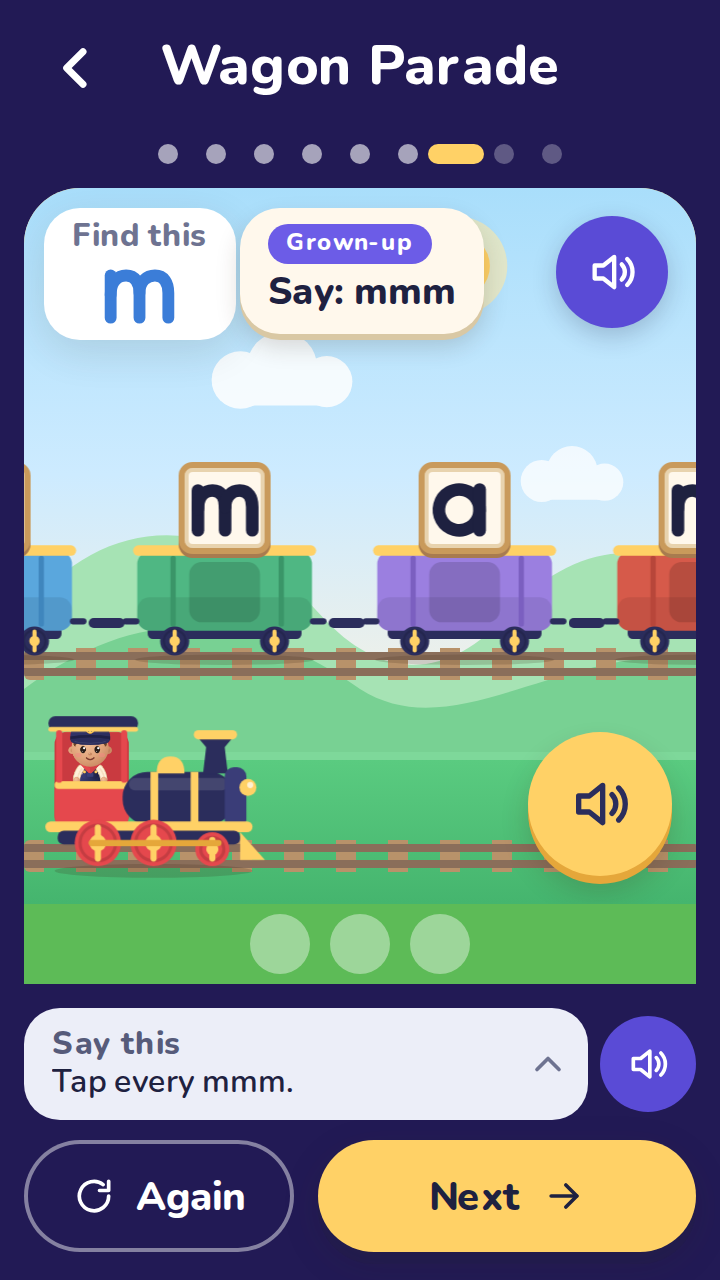
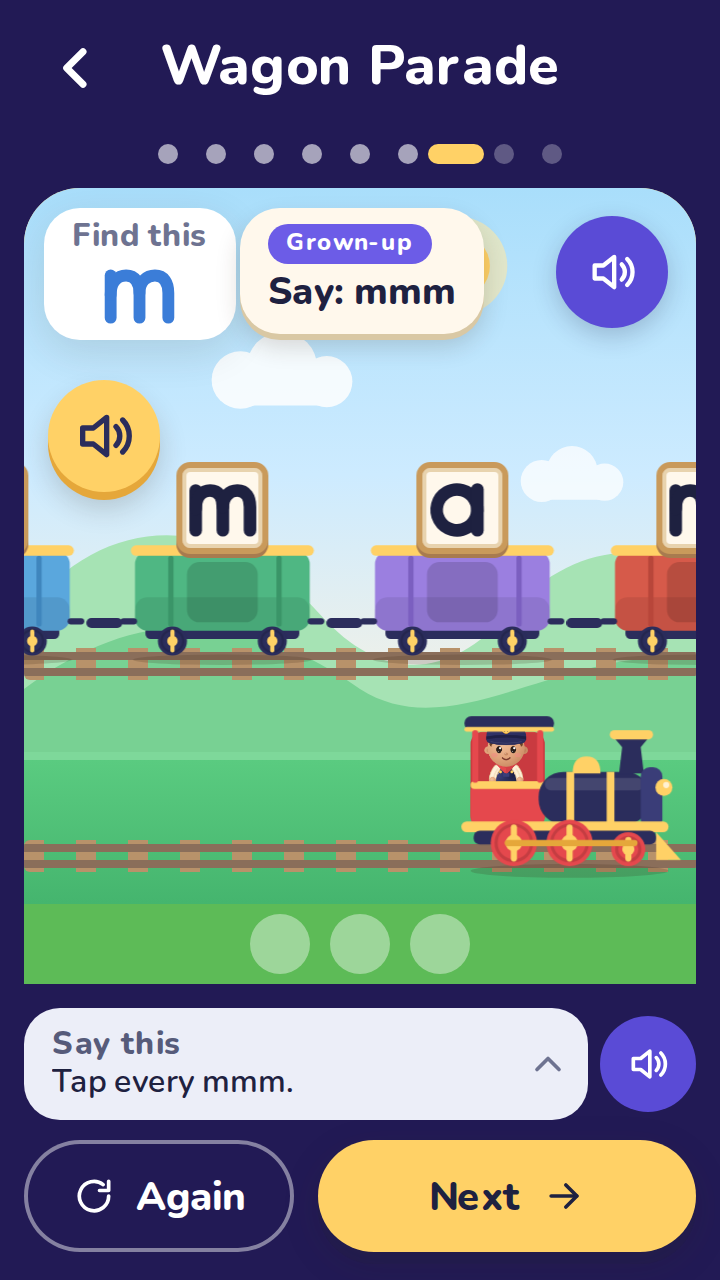
Wagon Parade: every right tap counts; the wagon rolls down and couples onto the bottom train (1.9.3.2)
Claude-Session: https://claude.ai/code/session_016cKvBQBv9Ceas6c2YjYcfF

diff --git a/js/screens/tasks/wagons.js b/js/screens/tasks/wagons.js
@@ -10,16 +10,16 @@ import { soundPhrase, fit } from '../../lessons.js';
 import { sfx } from '../../sfx.js';
 
 const INK = '#1E2140';
-const TRAIN_W = 116, WAGON_W = 104, GAP = 16, SIZE = 8, HITS = 3, SPEED = 80; // px and px per second
+const TRAIN_W = 116, WAGON_W = 104, CW = 62, GAP = 16, SIZE = 8, HITS = 3, SPEED = 80; // px and px per second
 const SLOT = WAGON_W + GAP, LOOP = SIZE * SLOT, OFF = 120; // a wagon is drawn from -OFF to LOOP - OFF, so it wraps out of sight
-const NEXT_MS = 900, FIRST_MS = 400;
+const NEXT_MS = 1700, FIRST_MS = 400, FLY_MS = 900; // NEXT_MS leaves time to see the last wagon couple before the train uncouples
 // Soft wagon colours that are never tied to which letter is the target.
 const PAINT = [{ body: '#D65A4A', rib: '#B8463A' }, { body: '#5AA7DD', rib: '#3F86BD' }, { body: '#4FB783', rib: '#3A9568' }, { body: '#9B7FE0', rib: '#7B5FC0' }];
 const CROSS = 'M6 6 L26 26 M26 6 L6 26';
 
 // Wagon Parade. Toy goods wagons roll along a siding, coupled in a loop, each with a wooden crate that carries a letter.
 // The grown-up's recorded sound plays on every tap (or "Say: mmm" shows for the grown-up); the child taps every wagon whose
-// crate has the sound. A right wagon hops, uncouples and speeds ahead with a puff from the engine and a cheer from Pip;
+// crate has the sound. A right wagon hops, rolls off its track and travels down to couple behind the engine on the bottom train (one more wagon per right tap, up to three) with a puff from the engine and a cheer from Pip;
 // a wrong one only gets a soft red cross. The loop brings a missed wagon round again: nothing is timed. The one
 // requestAnimationFrame loop runs only while a parade is rolling. Reduced motion: the wagons stand still in rows.
 export function build(ctx) {
@@ -28,19 +28,20 @@ export function build(ctx) {
   const rounds = roundsFor(lesson, 'wagons');
   const others = otherLetters(curriculum, lesson.number, target, 3);
   const T = timers();
-  let round = 0, hitsLeft = 0, hitsDone = 0, locked = true, done = false, rolling = false, W = 0, H = 0, offset = 0, raf = 0, last = 0, wagons = [], endAnims = [], serial = 0, still = reduced();
+  let round = 0, hitsLeft = 0, hitsDone = 0, locked = true, done = false, rolling = false, W = 0, H = 0, offset = 0, raf = 0, last = 0, wagons = [], endAnims = [], coupled = [], serial = 0, still = reduced();
 
   const prompt = sayPrompt();
   const card = findCard(target);
   const hear = h('button', { class: 'say-hear wagon-hear', type: 'button', 'aria-label': 'Hear the sound again', onclick: () => saySound(ctx, target, prompt) }, icon('speaker', 32));
   const rail = h('div', { class: 'parade-rail', 'aria-hidden': 'true' });
   const lane = h('div', { class: 'parade' + (still ? ' still' : '') });
-  const trainHop = h('div', { class: 'train-hop' }, engineSvg());
-  const train = h('div', { class: 'train-wrap', style: { width: TRAIN_W + 'px' } }, trainHop);
+  const trainHop = h('div', { class: 'train-hop', style: { width: TRAIN_W + 'px', flex: '0 0 auto' } }, engineSvg());
+  const cars = h('div', { class: 'coupled' }); // the wagons coupled behind the engine, drawn from the `coupled` list (state)
+  const train = h('div', { class: 'train-wrap' }, cars, trainHop);
   const stars = starRow(rounds);
   const scene = h('div', { class: 'farm wagons-scene' }, huntBackdrop());
   scene.append(rail, lane, card, prompt.el, hear, train);
-  const el = h('div', { class: 'game wagons', dataset: { round: '0', state: 'playing' } }, scene, stars.el);
+  const el = h('div', { class: 'game wagons', dataset: { round: '0', state: 'playing', hits: '0' } }, scene, stars.el);
 
   const seat = () => train.querySelector('.pip-seat');
   const setPip = (pose) => { const s = seat(), old = s.firstChild, p = pipSvg({ pose }); for (const k of ['x', 'y', 'width', 'height']) p.setAttribute(k, old.getAttribute(k)); s.replaceChildren(p); };
@@ -77,13 +78,14 @@ export function build(ctx) {
   function newParade() {
     const mine = ++serial;
     lane.replaceChildren();
+    coupled = []; cars.replaceChildren(); el.dataset.hits = '0';
     const letters = parade(target, others, { size: SIZE, hits: HITS });
     wagons = letters.map((ch, i) => {
       const paint = PAINT[(i + round) % PAINT.length];
       const btn = h('button', { class: 'parade-wagon', type: 'button', 'aria-label': 'wagon', dataset: { letter: ch, target: ch === target ? '1' : '0', slot: String(i) } },
         wagonSvg(paint), h('span', { class: 'crate' }, letterFace(ch, INK)));
       const pos = h('div', { class: 'pw' }, btn);
-      const w = { i, ch, isTarget: ch === target, btn, pos, x0: i * SLOT, gone: false };
+      const w = { i, ch, paint, isTarget: ch === target, btn, pos, x0: i * SLOT, gone: false };
       btn.addEventListener('pointerdown', (e) => { if (e.pointerType === 'mouse' && e.button !== 0) return; tap(w); });
       btn.addEventListener('click', (e) => { if (e.detail === 0) tap(w); });
       lane.append(pos);
@@ -124,6 +126,38 @@ export function build(ctx) {
   const onVisible = () => { if (document.hidden) stop(); else if (hitsLeft > 0 && !locked) start(); };
   document.addEventListener('visibilitychange', onVisible);
 
+  // The coupled wagons are drawn from the count: the car is in the DOM the moment the tap is counted (hidden until it
+  // arrives), so no animation callback can lose a tap. settle() shows it; it runs on finish, cancel or at once.
+  function couple(w) {
+    const car = h('div', { class: 'coupled-wagon pending', dataset: { letter: w.ch } }, wagonSvg(w.paint), h('span', { class: 'crate' }, letterFace(w.ch, INK)));
+    const entry = { w, car, mine: serial, settled: false };
+    coupled.push(entry);
+    cars.append(car);
+    el.dataset.hits = String(coupled.length);
+    return entry;
+  }
+  function settle(entry, fx) {
+    if (entry.settled) return;
+    entry.settled = true;
+    entry.car.classList.remove('pending');
+    entry.w.btn.style.opacity = '0';
+    if (fx && entry.mine === serial && !done && train.isConnected) chug();
+  }
+  function fly(entry) {
+    const { w } = entry;
+    if (still || reduced()) { settle(entry, false); return; }
+    const s = w.btn.getBoundingClientRect(), d = entry.car.getBoundingClientRect();
+    const dx = d.left + d.width / 2 - (s.left + s.width / 2), dy = d.bottom - s.bottom, k = d.width / s.width;
+    w.btn.style.transformOrigin = '50% 100%';
+    const a = w.btn.animate([
+      { transform: 'translate(0,0) scale(1)', offset: 0, easing: 'ease-out' },
+      { transform: 'translate(0,-18px) scale(1)', offset: 0.22, easing: 'ease-in' },
+      { transform: 'translate(0,0) scale(1)', offset: 0.34, easing: 'ease-in-out' },
+      { transform: `translate(${dx}px,${dy}px) scale(${k})`, offset: 1 }], { duration: FLY_MS, fill: 'forwards' });
+    endAnims.push(a);
+    a.finished.then(() => settle(entry, true)).catch(() => settle(entry, false));
+  }
+
   function tap(w) {
     if (done || locked || w.gone) return;
     hearOne(); // every tap plays the sound (or shows what to say)
@@ -135,12 +169,8 @@ export function build(ctx) {
     const r = w.btn.getBoundingClientRect(), o = scene.getBoundingClientRect();
     sparkle(scene, r.left - o.left + r.width / 2, r.top - o.top + r.height / 3, { count: 9, size: [10, 20], reach: [30, 62] });
     setPip('cheer'); T.later(() => setPip('idle'), 900);
-    chug();
-    if (still) animate(w.btn, [{ opacity: 1 }, { opacity: 0 }], { duration: 300, fill: 'forwards' });
-    else {
-      endAnims.push(w.btn.animate([{ transform: 'translateY(0)', offset: 0 }, { transform: 'translateY(-18px)', offset: 0.35 }, { transform: 'translate(0,0)', offset: 0.5 }, { transform: `translateX(${W + 200}px)`, offset: 1 }], { duration: 1000, easing: 'ease-in', fill: 'forwards' }));
-    }
     w.btn.style.pointerEvents = 'none';
+    fly(couple(w));
     if (hitsLeft > 0) return;
     // the parade is over: the wagons stop rolling, the star fills, the next parade follows
     locked = true;
@@ -149,7 +179,10 @@ export function build(ctx) {
     stars.fill(round - 1);
     el.dataset.round = String(round);
     if (round >= rounds) { done = true; hints.stop(); T.later(ending, NEXT_MS); return; }
-    T.later(() => { wagons.forEach((x) => { if (!x.gone) animate(x.btn, [{ opacity: 1 }, { opacity: 0 }], { duration: 240, fill: 'forwards' }); }); }, NEXT_MS - 300);
+    T.later(() => {
+      wagons.forEach((x) => { if (!x.gone) animate(x.btn, [{ opacity: 1 }, { opacity: 0 }], { duration: 240, fill: 'forwards' }); });
+      coupled.forEach((c) => { settle(c, false); animate(c.car, [{ opacity: 1, transform: 'translateX(0)' }, { opacity: 0, transform: 'translateX(-24px)' }], { duration: 280, fill: 'forwards' }); }); // uncouple
+    }, NEXT_MS - 300);
     T.later(newParade, NEXT_MS);
   }
 
@@ -194,6 +227,6 @@ export function build(ctx) {
     gist: () => fit(`Tap every ${soundPhrase(sound)}.`, 'Tap every one.'),
     script: () => `Say: 'Tap every wagon that says ${soundPhrase(sound)}.' Every tap plays the sound; say it with them.`,
     again: () => { again(); speech.say(parts); },
-    cleanup: () => { T.clear(); stop(); document.removeEventListener('visibilitychange', onVisible); hints.stop(); stopWatching(); endAnims.forEach((a) => a.cancel()); },
+    cleanup: () => { T.clear(); stop(); document.removeEventListener('visibilitychange', onVisible); hints.stop(); stopWatching(); endAnims.forEach((a) => a.cancel()); coupled.forEach((c) => settle(c, false)); },
   };
 }

diff --git a/css/app.css b/css/app.css
@@ -1073,7 +1073,18 @@ button img, .word-tile img, .pic-frame img { pointer-events: none; -webkit-user-
 @media (prefers-reduced-motion: reduce) { .signal .lamp-go { transition: none; } }
 /* Wagon Parade: toy wagons on a siding, each with a wooden crate that carries the letter */
 .wagons-scene .say-prompt { left: 108px; max-width: calc(100% - 184px); margin: 0; }
-.wagons-scene .say-hear { top: auto; left: auto; bottom: 14px; right: 12px; }
+.wagons-scene .say-hear { top: 96px; left: 12px; bottom: auto; right: auto; width: 56px; height: 56px; } /* in the sky under the find card: the bottom track belongs to the train */
+.wagons-scene .train-wrap { left: auto; right: 6px; bottom: 12px; display: flex; align-items: flex-end; }
+.coupled { display: flex; flex-direction: row-reverse; align-items: flex-end; gap: 4px; margin-right: -2px; } /* first coupled wagon sits next to the engine */
+.coupled-wagon { position: relative; flex: 0 0 auto; width: 62px; height: 62px; margin-bottom: 1px; will-change: opacity; }
+.coupled-wagon.pending { opacity: 0; }
+.coupled-wagon::after { content: ''; position: absolute; right: -5px; bottom: 11px; width: 7px; height: 3px; border-radius: 2px; background: #2B2D5C; }
+.coupled-wagon .wagon-art { position: absolute; left: 0; bottom: 0; width: 100%; height: auto; overflow: visible; }
+.coupled-wagon .wagon-lid { display: none; }
+.coupled-wagon .wagon-panel-bg { fill: rgba(0,0,0,.14); }
+.coupled-wagon .crate { position: absolute; left: 50%; top: 1px; width: 28px; height: 28px; margin-left: -14px; display: grid; place-items: center; box-sizing: border-box; border-radius: 4px; background: #FFF8EC; border: 2px solid #C99A5B; box-shadow: inset 0 0 0 1px #E8D3AE, 0 1px 0 #A87B4F; pointer-events: none; }
+.coupled-wagon .crate .glyph { height: 19px; width: auto; } .coupled-wagon .crate .glyph path { stroke-width: 13; }
+.coupled-wagon .crate .font-letter { font-size: 21px; }
 .wagons-scene .find-card { top: 10px; }
 .parade-rail { left: 0; right: 0; bottom: 112px; height: 16px; z-index: 1; background:
   linear-gradient(#8A6E5A, #8A6E5A) 0 2px / 100% 4px no-repeat,

diff --git a/sw.js b/sw.js
@@ -1,6 +1,6 @@
 // Service worker: precache the app shell and everything the three lessons use, then serve cache-first.
 // Bump CACHE_VERSION whenever any file below changes, or installed copies keep the old files.
-const CACHE_VERSION = 'reading-v1.9.3.1';
+const CACHE_VERSION = 'reading-v1.9.3.2';
 
 const APP_FILES = [
   './', 'index.html', 'manifest.webmanifest',

diff --git a/js/version.js b/js/version.js
@@ -1,2 +1,2 @@
 // Bump both this and CACHE_VERSION in sw.js whenever content or code changes.
-export const APP_VERSION = '1.9.3.1';
+export const APP_VERSION = '1.9.3.2';

diff --git a/README.md b/README.md
@@ -393,3 +393,4 @@ The design is in `docs/TRAIN-WORLD.md`; screenshots at four phone sizes are in `
 - v1.9.2: Station Board: a split-flap departures board on a brick station wall; its words come from `WORD_BANK` in `js/games-data.js` (298 short real words, CVC, VC, CCVC and CVCC; the repo has no general word list, so counts are over that list), chosen per lesson by `boardWords` and stored as `lesson.board` by `tools/gen-lessons.mjs` (lessons 5 on). `check-content` proves every board word readable with the sounds taught by then, and asserts the exact lists the plan promises. The word is never sent to the phone's voice: the grown-up reads "Say: This is sat. Tap t-." Tiles are 72 to 80 px wide (not 76) so four fit a 360 px phone.
 - v1.9.3: the three tap games rotate in Barn Doors' place, chosen by `gameSlot` in `js/games-data.js` and written to each lesson's `games` by `tools/gen-lessons.mjs`. Barn Doors is removed (code, art, CSS, `games.barn` data, its tests and the `doors` sound). Every generated sound now has `clip: assets/audio/sounds/<k>.mp3`, so a parent recording of any sound is found (a missing file is just marked missing). Rotation (W Wagon Parade, G Green Light, B Station Board): 1 W, 2 G, 3 W, 4 G, 5 G+W, 6 W, 7 B+G, 8 G, 9 W+B, 10 B, 11 G+W, 12 W, 13 B+G. Lesson 1 gets Wagon Parade only (one sound taught); Station Board needs a full list of four proven words, so it starts at lesson 7 in this order.
 - v1.9.3.1: owner fixes. The lesson finish screen's second Yes now goes back to the railway home (`#/home`), where the station-complete sequence rides the train to the next stop (the checkpoint finish already did). The straight "Bob" hair is one continuous shoulder-length mass drawn behind the head with a rounded fringe on top; the flat strips beside the cheeks that read as sideburns are gone (the 3D toy bob never had them).
+- v1.9.3.2: Wagon Parade: every right tap now counts and shows. The count is state set in `tap()` (`el.dataset.hits`), never an animation callback; the tapped wagon hops and travels down (a finite WAAPI transform) to couple behind the engine, and the coupled cars are rendered from that count so a cancelled animation cannot lose one. The bottom train holds up to three cars per parade and uncouples when the next parade starts; reduced motion shows the car at once. The train now sits at the right (the engine faces right), and the bell moved up under the find card (56 px). Before this the bottom train never moved and only the third tap showed (one star), which read as lost taps.
